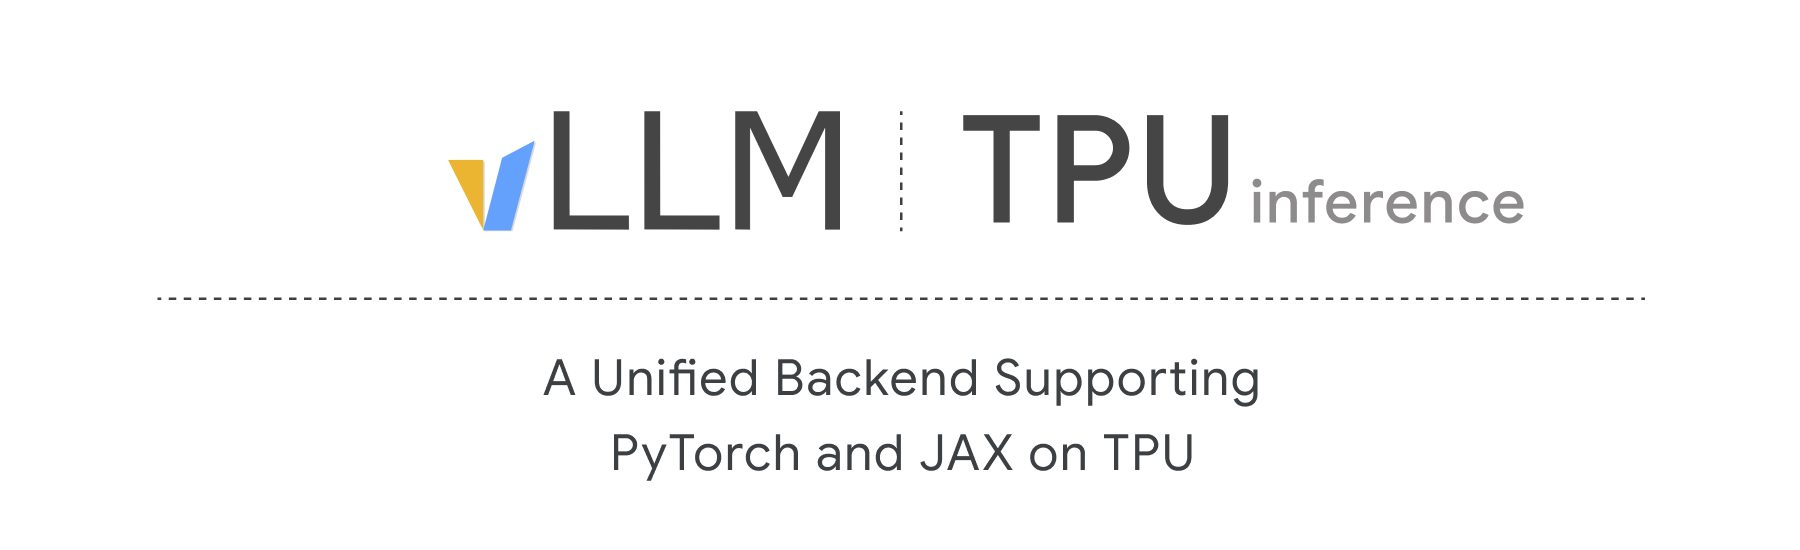
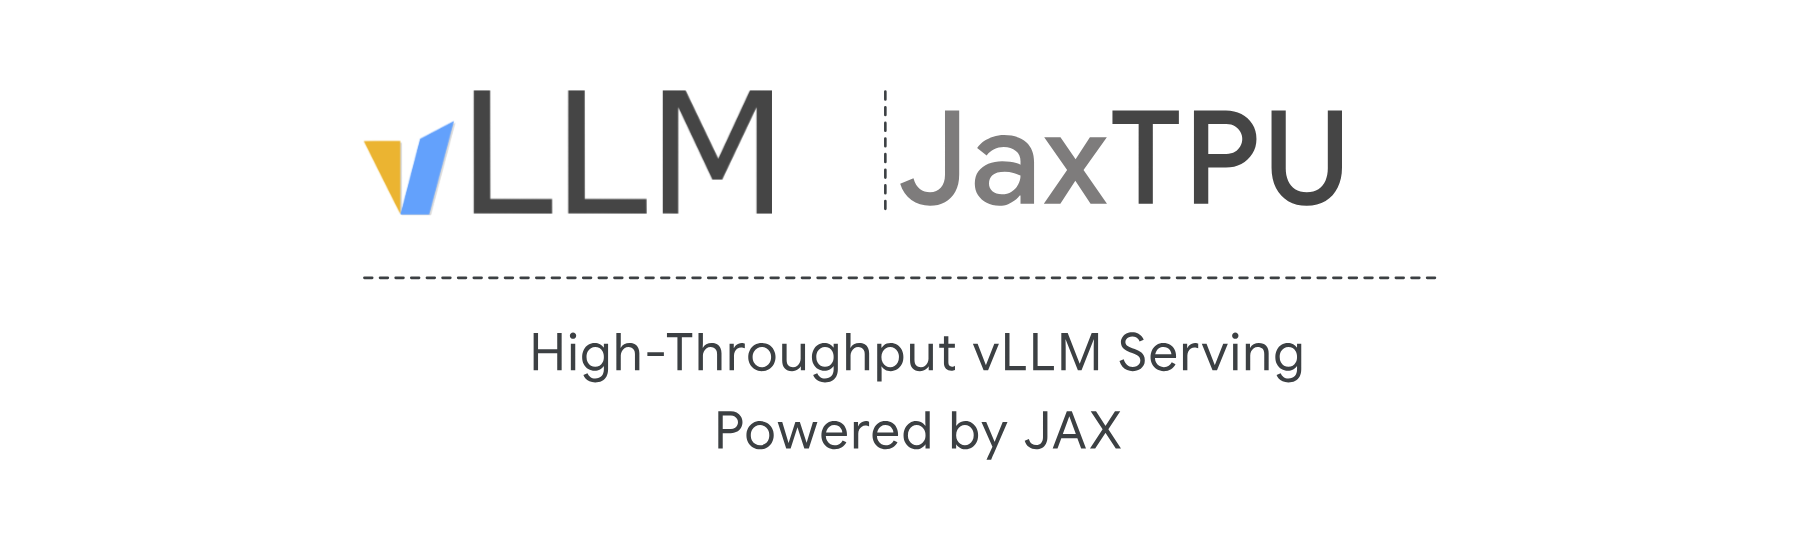
Inspect a name change to JAX-TPU

diff --git a/docs/overrides/partials/logo.html b/docs/overrides/partials/logo.html
@@ -1,0 +1,26 @@
+<!--
+ Copyright 2026 Google LLC
+
+ Licensed under the Apache License, Version 2.0 (the "License");
+ you may not use this file except in compliance with the License.
+ You may obtain a copy of the License at
+
+     http://www.apache.org/licenses/LICENSE-2.0
+
+ Unless required by applicable law or agreed to in writing, software
+ distributed under the License is distributed on an "AS IS" BASIS,
+ WITHOUT WARRANTIES OR CONDITIONS OF ANY KIND, either express or implied.
+ See the License for the specific language governing permissions and
+ limitations under the License.
+-->
+
+{#-
+  Composite header logo: vLLM mark + "+" + JAX mark.
+  Overrides mkdocs-material's partials/logo.html (used by the header and the
+  mobile navigation drawer). Styled in docs/mkdocs/stylesheets/extra.css.
+-#}
+<span class="md-logo__composite">
+  <img src="{{ 'assets/logos/vllm-logo-only-light.png' | url }}" alt="vLLM logo">
+  <span class="md-logo__plus" aria-hidden="true">+</span>
+  <img src="{{ 'assets/logos/jax-logo.svg' | url }}" alt="JAX logo">
+</span>

diff --git a/docs/mkdocs/stylesheets/extra.css b/docs/mkdocs/stylesheets/extra.css
@@ -64,3 +64,36 @@ body[data-md-color-scheme="slate"] .md-nav__item--section > label.md-nav__link .
   background-color: #fef7e0;
   color: #f9ab00;
 }
+
+/* Composite header logo: vLLM + JAX (see docs/overrides/partials/logo.html) */
+.md-logo__composite {
+  display: flex;
+  align-items: center;
+  gap: 0.25rem;
+}
+
+.md-logo__plus {
+  font-size: 1rem;
+  font-weight: 700;
+  line-height: 1;
+  color: currentColor;
+}
+
+.md-header__button.md-logo .md-logo__composite img {
+  height: 1.2rem;
+  width: auto;
+}
+
+/* Mobile navigation drawer shows the logo larger */
+.md-nav__button.md-logo .md-logo__composite {
+  gap: 0.4rem;
+}
+
+.md-nav__button.md-logo .md-logo__composite img {
+  height: 2.4rem;
+  width: auto;
+}
+
+.md-nav__button.md-logo .md-logo__plus {
+  font-size: 1.6rem;
+}

diff --git a/README.md b/README.md
@@ -38,7 +38,7 @@
 
 ## About
 
-vLLM TPU is now powered by `tpu-inference`, an expressive and powerful new hardware plugin unifying JAX and PyTorch under a single lowering path within the vLLM project. The new backend now provides a framework for developers to:
+vLLM JAX-TPU is now powered by `tpu-inference`, an expressive and powerful new hardware plugin unifying JAX and PyTorch under a single lowering path within the vLLM project. The new backend now provides a framework for developers to:
 
 - Push the limits of TPU hardware performance in open source.
 - Provide more flexibility to JAX and PyTorch users by running PyTorch model definitions performantly on TPU without any additional code changes, while also extending native support to JAX.

diff --git a/docs/README.md b/docs/README.md
@@ -12,7 +12,7 @@
 
 ## About
 
-vLLM TPU is now powered by `tpu-inference`, an expressive and powerful new hardware plugin unifying JAX and PyTorch under a single lowering path within the vLLM project. The new backend now provides a framework for developers to:
+vLLM JAX-TPU is now powered by `tpu-inference`, an expressive and powerful new hardware plugin unifying JAX and PyTorch under a single lowering path within the vLLM project. The new backend now provides a framework for developers to:
 
 - Push the limits of TPU hardware performance in open source.
 - Provide more flexibility to JAX and PyTorch users by running PyTorch model definitions performantly on TPU without any additional code changes, while also extending native support to JAX.
